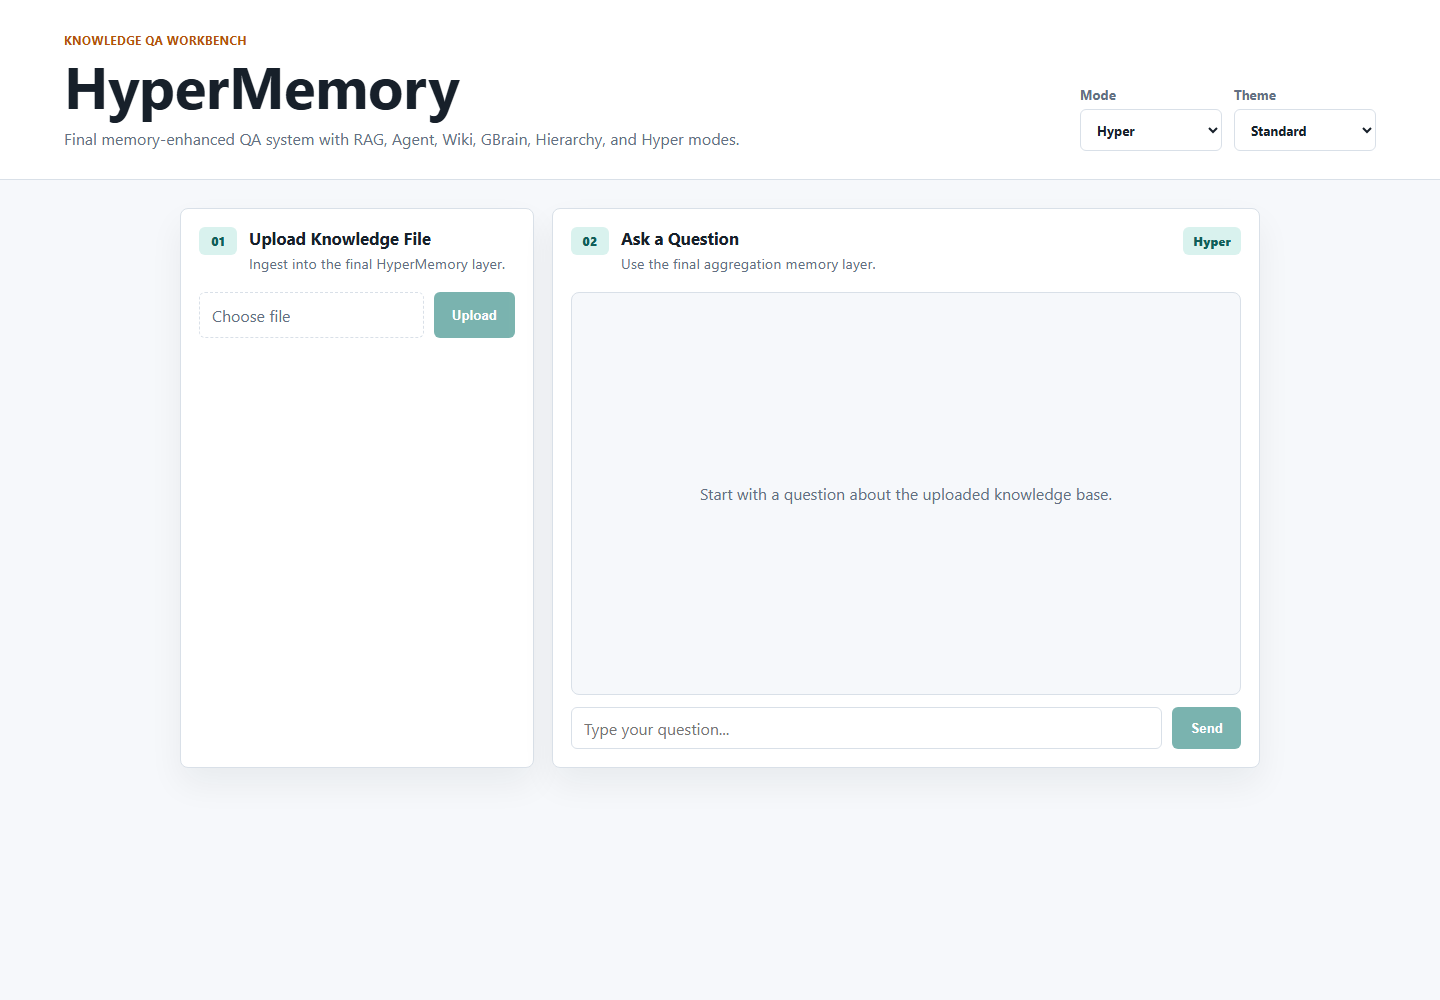
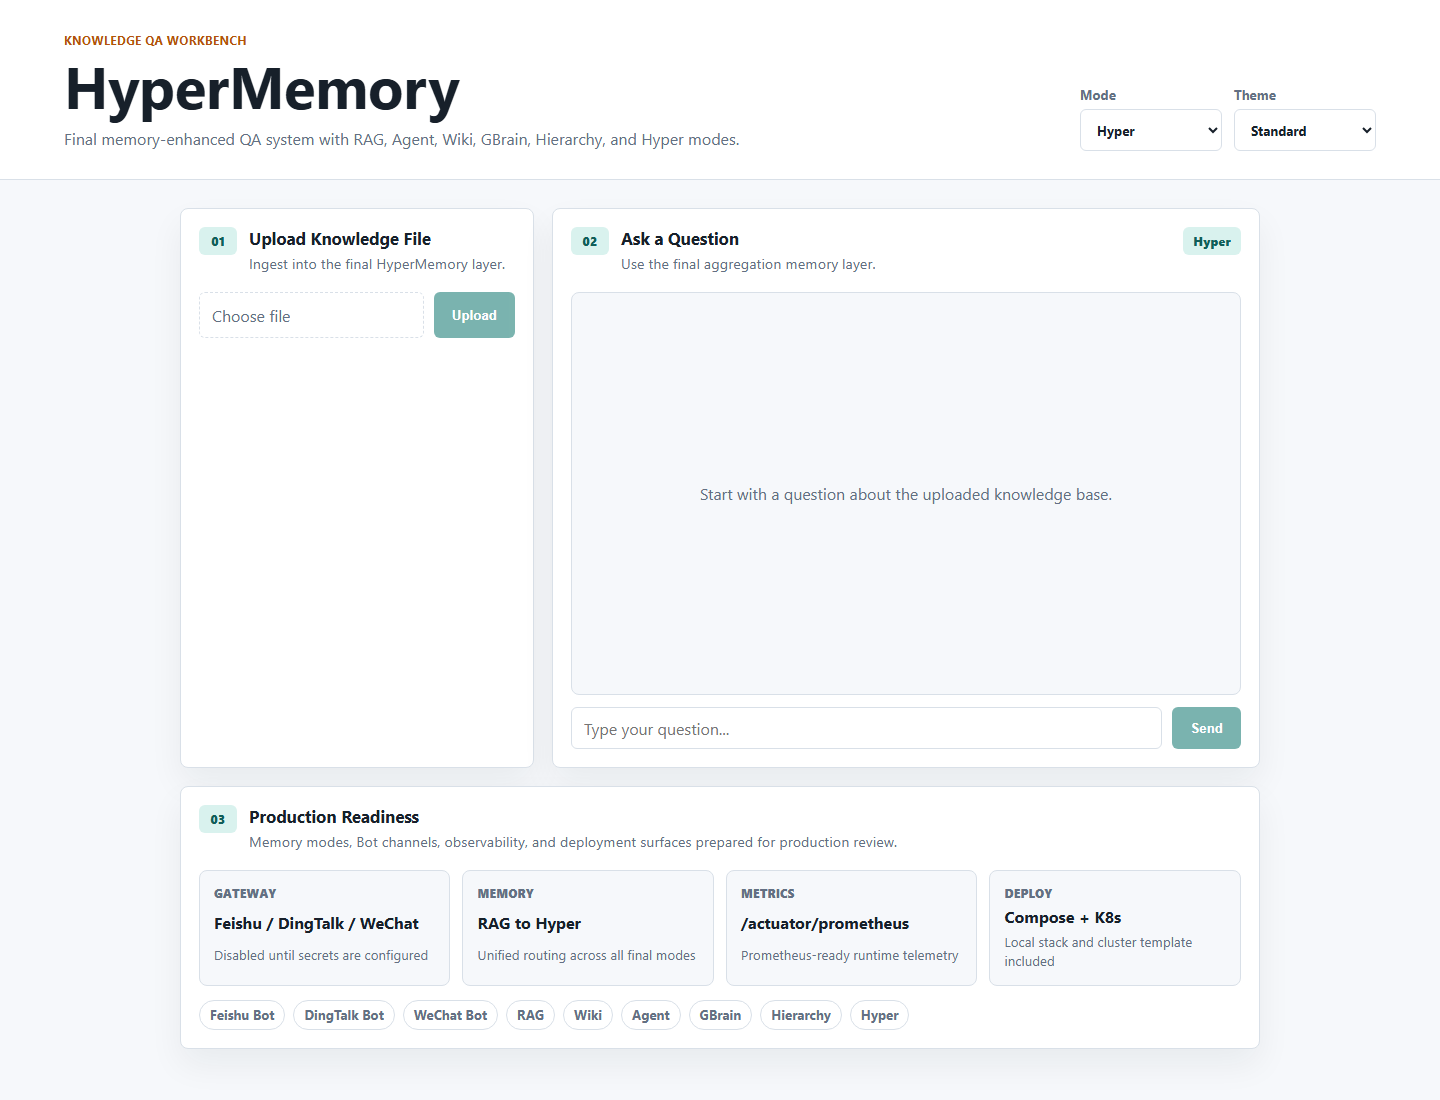
Harden production readiness and expand README visuals

diff --git a/frontend/src/App.vue b/frontend/src/App.vue
@@ -92,6 +92,30 @@
           </button>
         </div>
       </section>
+
+      <section class="panel readiness-panel">
+        <div class="panel-heading">
+          <span class="step">03</span>
+          <div>
+            <h2>Production Readiness</h2>
+            <p>{{ readinessSubtitle }}</p>
+          </div>
+        </div>
+
+        <div class="signal-grid">
+          <article v-for="signal in readinessSignals" :key="signal.label" class="signal-card">
+            <span>{{ signal.label }}</span>
+            <strong>{{ signal.value }}</strong>
+            <small>{{ signal.detail }}</small>
+          </article>
+        </div>
+
+        <div class="integration-strip">
+          <span v-for="channel in botChannels" :key="channel" class="integration-pill">
+            {{ channel }}
+          </span>
+        </div>
+      </section>
     </main>
   </div>
 </template>
@@ -192,6 +216,17 @@ const themes = {
   },
 };
 
+const readinessSubtitle = 'Memory modes, Bot channels, observability, and deployment surfaces prepared for production review.';
+
+const readinessSignals = [
+  { label: 'Gateway', value: 'Feishu / DingTalk / WeChat', detail: 'Disabled until secrets are configured' },
+  { label: 'Memory', value: 'RAG to Hyper', detail: 'Unified routing across all final modes' },
+  { label: 'Metrics', value: '/actuator/prometheus', detail: 'Prometheus-ready runtime telemetry' },
+  { label: 'Deploy', value: 'Compose + K8s', detail: 'Local stack and cluster template included' },
+];
+
+const botChannels = ['Feishu Bot', 'DingTalk Bot', 'WeChat Bot', 'RAG', 'Wiki', 'Agent', 'GBrain', 'Hierarchy', 'Hyper'];
+
 const selectedFile = ref(null);
 const uploadStatus = ref('');
 const uploading = ref(false);
@@ -212,8 +247,38 @@ function applyTheme() {
   });
 }
 
-onMounted(applyTheme);
+onMounted(() => {
+  applyRoutePreview();
+  applyTheme();
+});
 watch(selectedTheme, applyTheme);
+
+function applyRoutePreview() {
+  const params = new URLSearchParams(window.location.search);
+  const mode = params.get('mode');
+  const theme = params.get('theme');
+  const demo = params.get('demo');
+
+  if (modes.some((candidate) => candidate.value === mode)) {
+    selectedMode.value = mode;
+  }
+  if (theme && themes[theme]) {
+    selectedTheme.value = theme;
+  }
+  if (demo === 'conversation') {
+    messages.value = [
+      { id: ++messageCounter, role: 'User', content: 'Summarize the scholarship process and keep session memory.' },
+      {
+        id: ++messageCounter,
+        role: 'Assistant',
+        content: `${currentMode.value.label} combined retrieved policy context with memory state and returned a guarded answer.`,
+      },
+    ];
+  }
+  if (demo === 'upload') {
+    uploadStatus.value = `Indexed scholarship-policy.md for ${currentMode.value.label}.`;
+  }
+}
 
 function onFileChange(event) {
   selectedFile.value = event.target.files?.[0] ?? null;
@@ -512,6 +577,64 @@ select {
   flex-direction: column;
 }
 
+.readiness-panel {
+  grid-column: 1 / -1;
+}
+
+.signal-grid {
+  display: grid;
+  grid-template-columns: repeat(4, minmax(0, 1fr));
+  gap: 12px;
+}
+
+.signal-card {
+  display: grid;
+  gap: 6px;
+  min-width: 0;
+  padding: 14px;
+  border: 1px solid var(--line);
+  border-radius: 8px;
+  background: var(--surface-muted);
+}
+
+.signal-card span {
+  color: var(--muted);
+  font-size: 0.76rem;
+  font-weight: 800;
+  text-transform: uppercase;
+}
+
+.signal-card strong {
+  color: var(--text);
+  font-size: 1rem;
+  line-height: 1.25;
+}
+
+.signal-card small {
+  color: var(--muted);
+  line-height: 1.4;
+}
+
+.integration-strip {
+  display: flex;
+  flex-wrap: wrap;
+  gap: 8px;
+  margin-top: 14px;
+}
+
+.integration-pill {
+  display: inline-flex;
+  align-items: center;
+  min-height: 30px;
+  padding: 0 10px;
+  border: 1px solid var(--line);
+  border-radius: 999px;
+  background: var(--surface);
+  color: var(--muted);
+  font-size: 0.82rem;
+  font-weight: 700;
+}
+
 .messages {
   flex: 1;
   min-height: 360px;
@@ -655,6 +778,10 @@ select {
 
   .message {
     max-width: 92%;
+  }
+
+  .signal-grid {
+    grid-template-columns: 1fr;
   }
 }
 </style>

diff --git a/README.md b/README.md
@@ -16,6 +16,8 @@
   <a href="#quick-start">Quick Start</a> |
   <a href="docs/OPERATIONS.md">Operations</a> |
   <a href="docs/PRODUCTION-ARCHITECTURE.md">Architecture</a> |
+  <a href="docs/PRODUCTION-GAPS.md">Production Gaps</a> |
+  <a href="docs/MAINTENANCE.md">Maintenance</a> |
   <a href="docs/BOT-INTEGRATION.md">Bot Integration</a> |
   <a href="docs/OPEN_SOURCE_REFERENCES.md">References</a>
 </p>
@@ -56,13 +58,17 @@ HyperMemory is the final repository in the Campus QA family. It keeps the useful
 | Hyper | `/api/hyper/chat` | Final aggregation layer for the demo. |
 | Bot Gateway | `/api/bot/{channel}/callback` | Routes normalized Feishu, DingTalk, and WeChat messages. |
 
-## Frontend Preview
+## Visual Walkthrough
 
-The README includes the actual UI surface so visitors can evaluate the product feel before running Docker.
+Six README-owned screenshots show the runnable workbench across final memory modes, production readiness, and mobile layout.
 
-| Desktop | Mode selection | Mobile |
+| Dashboard | Hierarchy mode | Agent mode |
 | --- | --- | --- |
-| <img src="docs/assets/screenshots/hypermemory-dashboard.png" alt="HyperMemory desktop" width="320"> | <img src="docs/assets/screenshots/hypermemory-mode.png" alt="HyperMemory mode switch" width="320"> | <img src="docs/assets/screenshots/hypermemory-mobile.png" alt="HyperMemory mobile" width="180"> |
+| <img src="docs/assets/screenshots/hypermemory-dashboard.png" alt="HyperMemory dashboard" width="300"> | <img src="docs/assets/screenshots/hypermemory-mode.png" alt="HyperMemory hierarchy mode" width="300"> | <img src="docs/assets/screenshots/hypermemory-agent.png" alt="HyperMemory Agent mode" width="300"> |
+
+| GBrain conversation | Production readiness | Mobile |
+| --- | --- | --- |
+| <img src="docs/assets/screenshots/hypermemory-gbrain-conversation.png" alt="HyperMemory GBrain conversation" width="300"> | <img src="docs/assets/screenshots/hypermemory-readiness.png" alt="HyperMemory production readiness" width="300"> | <img src="docs/assets/screenshots/hypermemory-mobile.png" alt="HyperMemory mobile" width="160"> |
 
 ## Architecture
 
@@ -113,14 +119,18 @@ frontend/             Vue 3 workbench
 docs/assets/          README screenshots
 docs/OPERATIONS.md    Runtime and endpoint notes
 docs/PRODUCTION-ARCHITECTURE.md
+docs/PRODUCTION-GAPS.md
+docs/MAINTENANCE.md
 docs/BOT-INTEGRATION.md
+docs/SCREENSHOTS.md
 docs/openapi/          API contract templates
 deploy/k8s/            Kubernetes deployment template
 docs/PRODUCTION-REVIEW.md
+SECURITY.md            Security policy and secret-handling notes
 docker-compose.yml    Full local runtime stack
 .env.example          Runtime configuration template
 ```
 
 ## Production Readiness
 
-See [Production Review](docs/PRODUCTION-REVIEW.md) for the detailed audit. The largest remaining decision is whether the final HyperMemory runtime should collapse to SQLite-only retrieval, as originally intended, or keep the current MySQL/Milvus/MinIO Docker stack.
+See [Production Review](docs/PRODUCTION-REVIEW.md) and [Production Gaps](docs/PRODUCTION-GAPS.md) for the detailed audit. The largest remaining decisions are durable memory persistence, tenant isolation, Bot idempotency, and whether final retrieval should collapse to SQLite-only or keep the current MySQL/Milvus/MinIO stack.

diff --git a/docs/PRODUCTION-GAPS.md b/docs/PRODUCTION-GAPS.md
@@ -1,0 +1,36 @@
+# Remaining Production Gaps
+
+HyperMemory is the final product repository, but it is not finished as a production-grade memory system until the following gaps are closed.
+
+## P0 Before Real Users
+
+| Gap | Impact | Recommended fix |
+| --- | --- | --- |
+| No user authentication | Anyone reaching the API can upload, query, or run memory modes. | Add OAuth/OIDC or gateway auth before public exposure. |
+| No tenant-scoped document isolation | Knowledge, memory, and Bot conversations can mix across organizations. | Add `tenantId` to documents, chunks, memory records, conversations, and retrieval filters. |
+| Hierarchy/Hyper memory is in memory | Restart loses important memory context. | Persist memory records in SQLite or MySQL with explicit lifecycle rules. |
+| No Bot idempotency store | Platform retries can trigger duplicate memory/model calls. | Store `(channel, messageId)` in Redis or MySQL with TTL. |
+
+## P1 Architectural Hardening
+
+| Gap | Impact | Recommended fix |
+| --- | --- | --- |
+| Memory layers still share too much shape | The architecture can drift into duplicated concepts. | Collapse into clear responsibilities: retrieval, wiki, conversation memory, hyper aggregation. |
+| SQLite-only target is not implemented | Current stack is heavier than the desired final design. | Decide whether to migrate retrieval and memory to SQLite/SQLite-vss or keep Milvus. |
+| No source citation response model | Operators cannot audit why an answer was produced. | Return answer plus memory layer, chunk IDs, document names, and scores. |
+| `ddl-auto: update` | Schema changes are implicit. | Introduce Flyway/Liquibase migrations. |
+
+## P2 Product Refinement
+
+| Gap | Impact | Recommended fix |
+| --- | --- | --- |
+| No memory evaluation set | Memory changes can silently regress. | Add golden multi-turn campus QA cases. |
+| No retention policy | Long-term memory can grow without governance. | Add TTL, summarization, deletion, and export policies. |
+| No admin console | Operators cannot inspect memory health. | Add an authenticated operator dashboard later. |
+
+## Maintenance Focus
+
+- Keep this repo as the final system, not another collection of versions.
+- Remove duplicate memory abstractions when they stop adding real behavior.
+- Update README screenshots whenever the workbench UI or mode list changes.
+- Run `mvn -B test`, `npm run build`, and `npm audit --audit-level=moderate` before releases.

diff --git a/docs/MAINTENANCE.md b/docs/MAINTENANCE.md
@@ -1,0 +1,35 @@
+# Maintenance Guide
+
+## Release Checklist
+
+1. Update screenshots if the UI changed.
+2. Run backend validation: `cd backend && mvn -B test`.
+3. Run frontend validation: `cd frontend && npm ci && npm run build && npm audit --audit-level=moderate`.
+4. Check local config: `cp .env.example .env && docker compose config`.
+5. Review secrets: `.env`, API keys, Bot tokens, and uploaded documents must not be committed.
+6. Tag the release after CI passes.
+
+## Weekly Maintenance
+
+| Area | Action |
+| --- | --- |
+| Dependencies | Review Dependabot PRs for Maven, npm, and GitHub Actions. |
+| Security | Rotate shared test secrets and confirm `.env.example` contains placeholders only. |
+| Operations | Check health, 5xx rate, p95 latency, JVM memory, and memory-mode failures. |
+| Memory quality | Re-run golden multi-turn examples before changing memory prompts or storage. |
+| Docs | Keep README, OpenAPI, Bot guide, and production gaps aligned with code. |
+
+## Alert Suggestions
+
+| Signal | Threshold | Action |
+| --- | --- | --- |
+| HTTP 5xx | More than 2% for 5 minutes | Inspect backend logs and provider errors. |
+| p95 latency | More than 8 seconds for 10 minutes | Check model latency, retrieval latency, and memory aggregation. |
+| Memory write failure | Any sustained failure | Inspect persistence layer and rollback recent memory changes. |
+| Bot auth failures | Sudden spike | Check token rotation, replay attempts, or provider config. |
+
+## Versioning
+
+- Use semantic tags such as `v0.1.0`.
+- Keep breaking API changes out of patch releases.
+- Update `docs/openapi/bot-gateway.yaml` in the same PR as API behavior changes.

diff --git a/SECURITY.md b/SECURITY.md
@@ -1,0 +1,21 @@
+# Security Policy
+
+## Supported Branch
+
+Security fixes target `main` until release branches are introduced.
+
+## Reporting
+
+Do not open public issues for secrets, authentication bypasses, data leaks, or prompt injection vulnerabilities. Use a private maintainer channel first.
+
+## Secret Handling
+
+- Never commit `.env`, model keys, Bot tokens, signing secrets, or uploaded private documents.
+- Rotate `OPENAI_API_KEY`, `BOT_SIGNING_SECRET`, and platform tokens before production launch.
+- Store production secrets in CI secrets, a secret manager, or Kubernetes Secrets.
+
+## Production Controls
+
+- Keep `BOT_ENABLED=false` until provider-native verification and internal HMAC signing are configured.
+- Put public traffic behind HTTPS, rate limiting, and request size limits.
+- Treat `tenantId` as the future authorization boundary for documents, conversations, and Bot channels.

diff --git a/docs/SCREENSHOTS.md b/docs/SCREENSHOTS.md
@@ -1,0 +1,14 @@
+# Screenshot Inventory
+
+The README uses six product screenshots generated from the real Vue workbench.
+
+| File | Purpose |
+| --- | --- |
+| `hypermemory-dashboard.png` | Main Hyper mode dashboard. |
+| `hypermemory-mode.png` | Hierarchy mode switch. |
+| `hypermemory-agent.png` | Agent mode switch. |
+| `hypermemory-gbrain-conversation.png` | Seeded GBrain conversation state. |
+| `hypermemory-readiness.png` | Production readiness and Bot integration cards. |
+| `hypermemory-mobile.png` | Mobile layout. |
+
+Refresh these files after changing `frontend/src/App.vue`.
